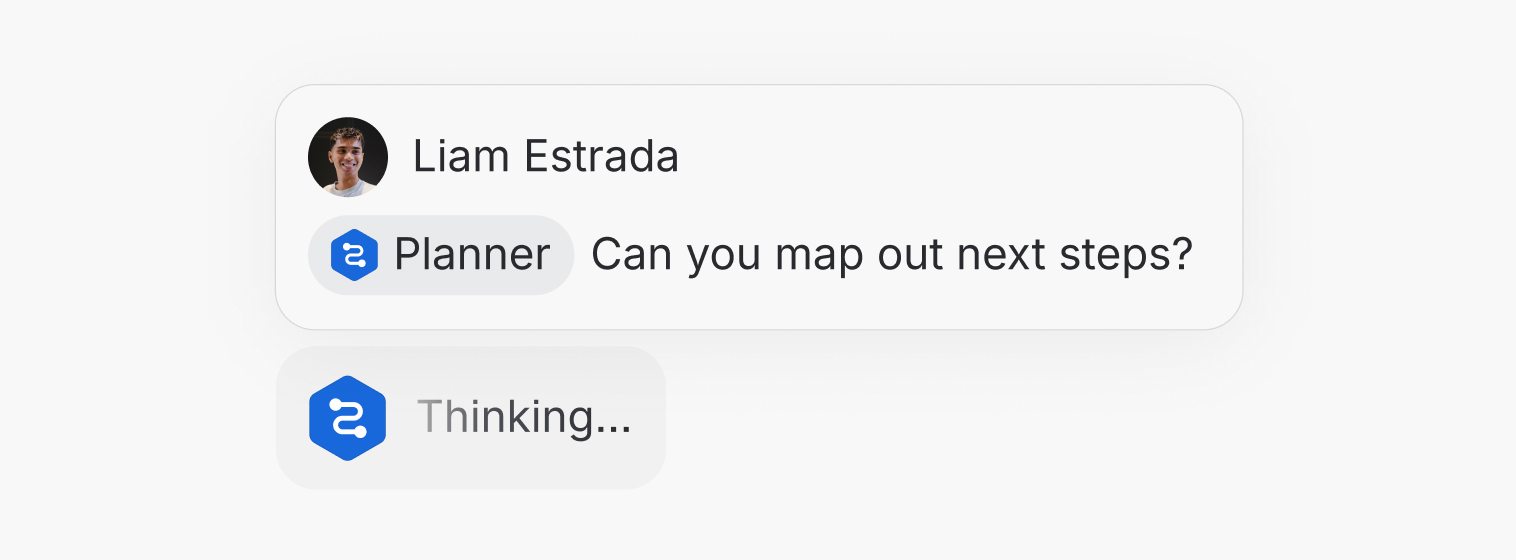
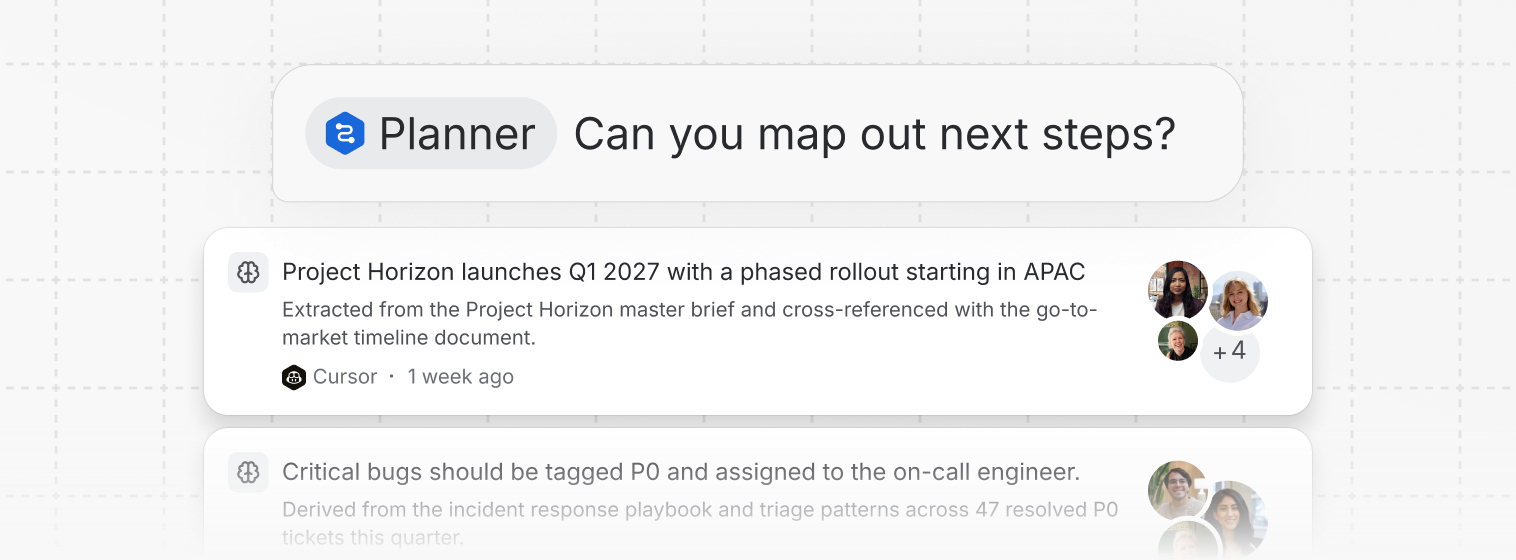
Refresh keynote context covers and add EU flag mark
Replace the People Context, Communications Context and EU AI Inference
covers with the latest Figma artwork (379x140 @4x, app tile removed so
the card overlay stays the single owner of the product mark).

Give EU AI Inference a European Union image tile and label image-source
app tiles as role="img" so their aria-label is valid.

Changed region(s): [[0.124, 0.5464, 0.8681, 0.9714], [0.155, 0.3946, 0.8371, 0.6375], [0.186, 0.1821, 0.7751, 0.3643]]

diff --git a/components/projects/jira-team-eu26-end/data/keynote-board.test.js b/components/projects/jira-team-eu26-end/data/keynote-board.test.js
@@ -163,7 +163,7 @@ test("each cover reuses the app-stack sources for its reference product marks", 
 	assert.deepEqual(cards.map((card) => card.coverImage.appSources.map((app) => app.label)), [
 		["Artifacts"], ["Rovo"], ["Teamwork Graph"], ["Teamwork Graph"], ["Code Search"], ["Rovo"], ["Teamwork Graph"], ["Teamwork Graph"],
 		["Teamwork Graph"], ["Loom"], ["Loom"], ["Jira", "Confluence", "Teamwork Graph"], ["Loom"], ["Jira"],
-		["Loom"], [], ["DX"], ["Jira Service Management"], [], ["Jira"], ["Jira Service Management"], ["Jira Service Management"], ["Talent"], ["Guard"],
+		["Loom"], ["European Union"], ["DX"], ["Jira Service Management"], [], ["Jira"], ["Jira Service Management"], ["Jira Service Management"], ["Talent"], ["Guard"],
 	]);
 });
 
@@ -293,6 +293,22 @@ test("a retained reference cover repairs stale product marks even when source ID
 	assert.deepEqual(cardByCode(restored, "TEU-7").coverImage.appSources.map((app) => app.provider), ["jira", "confluence", "teamwork-graph"]);
 	assert.equal(cardByCode(restored, "TEU-7").coverImage.fit, "cover");
 	assert.equal(planner.coverImage.appSources[2].provider, "twg");
+	assert.equal(restored[0], columns[0]);
+	assert.equal(keynote.restoreJiraTeamEu26EndKeynoteCoverArtwork(restored), restored);
+});
+
+test("a retained EU AI Inference cover gains the European flag mark without resetting live edits", async () => {
+	const keynote = await loadKeynoteModule();
+	const columns = keynote.createJiraTeamEu26EndKeynoteBoardColumns();
+	const inference = cardByCode(columns, "TEU-108");
+	inference.title = "EU AI Inference (rehearsal)";
+	inference.coverImage.appSources = [];
+	const restored = keynote.restoreJiraTeamEu26EndKeynoteCoverArtwork(columns);
+	const [flag] = cardByCode(restored, "TEU-108").coverImage.appSources;
+	assert.equal(flag.label, "European Union");
+	assert.equal(flag.iconSrc, "/illustration/jira-team-eu26-end/eu-flag.svg");
+	assert.ok(fs.existsSync(path.join(process.cwd(), "public", flag.iconSrc)), flag.iconSrc);
+	assert.equal(cardByCode(restored, "TEU-108").title, "EU AI Inference (rehearsal)");
 	assert.equal(restored[0], columns[0]);
 	assert.equal(keynote.restoreJiraTeamEu26EndKeynoteCoverArtwork(restored), restored);
 });

diff --git a/components/projects/jira-team-eu26-end/data/keynote-board.ts b/components/projects/jira-team-eu26-end/data/keynote-board.ts
@@ -24,6 +24,7 @@ const COVER_APPS = {
 	service: { id: "jira-service-management", label: "Jira Service Management", provider: "jira-service-management" },
 	talent: { id: "talent", label: "Talent", provider: "talent" },
 	guard: { id: "guard", label: "Guard", provider: "guard" },
+	eu: { id: "european-union", label: "European Union", provider: "twg", iconSrc: "/illustration/jira-team-eu26-end/eu-flag.svg" },
 } as const satisfies Record<string, TwgToolSource>;
 
 /** Shared product marks for keynote covers and the finale wall. */
@@ -45,7 +46,7 @@ const KEYNOTE_STORIES = [
 	{ code: "TEU-8", section: "Collaboration", heading: "Loom\nOverlay", title: "Loom Overlay", cover: "loom-overlay.jpeg", apps: [COVER_APPS.loom], assignee: JIRA_TEAM_EU26_END_PRESENTERS.taroon },
 	{ code: "TEU-107", section: "Collaboration", heading: "ChatGPT Codex\nfrom Jira", title: "ChatGPT Codex from Jira", cover: "chatgpt-codex-from-jira.jpeg", apps: [COVER_APPS.jira], assignee: JIRA_TEAM_EU26_END_PRESENTERS.sherif },
 	{ code: "TEU-9", section: "Confidence", heading: "Loom\nPR Reviews", title: "Loom PR Reviews", cover: "loom-pr-reviews.jpeg", apps: [COVER_APPS.loom], assignee: JIRA_TEAM_EU26_END_PRESENTERS.taroon },
-	{ code: "TEU-108", section: "Confidence", heading: "EU AI\nInference", title: "EU AI Inference", cover: "eu-ai-inference.jpeg", apps: [], assignee: JIRA_TEAM_EU26_END_PRESENTERS.taroon },
+	{ code: "TEU-108", section: "Confidence", heading: "EU AI\nInference", title: "EU AI Inference", cover: "eu-ai-inference.jpeg", apps: [COVER_APPS.eu], assignee: JIRA_TEAM_EU26_END_PRESENTERS.taroon },
 	{ code: "TEU-11", section: "Confidence", heading: "Agent\nEffectiveness", title: "Agent Effectiveness", cover: "agent-effectiveness.jpeg", apps: [COVER_APPS.dx], assignee: JIRA_TEAM_EU26_END_PRESENTERS.taroon },
 	{ code: "TEU-109", section: "Confidence", heading: "Change Risk\nAssessment", title: "Change Risk Assessment", cover: "change-risk-assessment.jpeg", apps: [COVER_APPS.service], assignee: JIRA_TEAM_EU26_END_PRESENTERS.mcb },
 	{ code: "TEU-110", section: "Confidence", heading: "Agent\nIdentities", title: "Agent Identities", cover: "agent-identities.jpeg", apps: [], assignee: JIRA_TEAM_EU26_END_PRESENTERS.mcb },

diff --git a/components/ui-custom/twg-appstack.test.js b/components/ui-custom/twg-appstack.test.js
@@ -176,6 +176,24 @@ test("Code Search uses its existing glyph in the lime app tile", async () => {
 	assert.equal(view.queryByRole("img", { name: "Search" }) === null, true);
 });
 
+test("image-source tiles expose their label as an image and can be decorative", async () => {
+	const source = { id: "european-union", label: "European Union", provider: "twg", iconSrc: "/illustration/jira-team-eu26-end/eu-flag.svg" };
+	const view = await renderComponent({
+		entry: "components/ui-custom/twg-appstack.tsx",
+		exportName: "TwgToolSourceIcon",
+		props: { source, size: "xsmall" },
+	});
+	const tile = view.getByRole("img", { name: "European Union" });
+	assert.equal(accessibleName(tile), "European Union");
+	assert.equal(tile.querySelector("img").getAttribute("aria-hidden"), "true");
+	assert.equal(tile.querySelector("img").getAttribute("width"), "20");
+	assert.deepEqual(view.tabOrder(), []);
+
+	await view.rerender({ source, size: "xsmall", "aria-hidden": true });
+	assert.equal(view.queryByRole("img", { name: "European Union" }) === null, true);
+	assert.equal(view.container.querySelector('[aria-label="European Union"]') === null, true);
+});
+
 test("TWG Appstack keeps the legacy TwgToolSourceStack adapter", () => {
 	assert.match(SOURCE, /export function TwgToolSourceStack\(props: TWGAppstackProps\)/u);
 	assert.match(SOURCE, /return <TWGAppstack \{\.\.\.props\} \/>/u);

diff --git a/components/ui-custom/twg-appstack.tsx b/components/ui-custom/twg-appstack.tsx
@@ -205,6 +205,7 @@ export function TwgToolSourceIcon({
 				className={cn("shrink-0", APPSTACK_TILE_FILL_CLASS, className)}
 				isInset={false}
 				label={source.label}
+				role={props["aria-hidden"] ? undefined : "img"}
 				size={size}
 				variant="transparent"
 				{...props}
